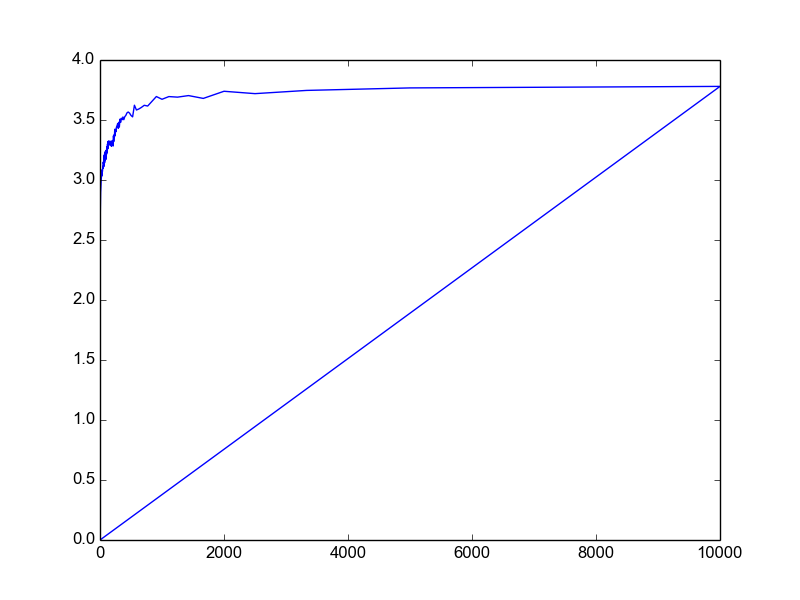
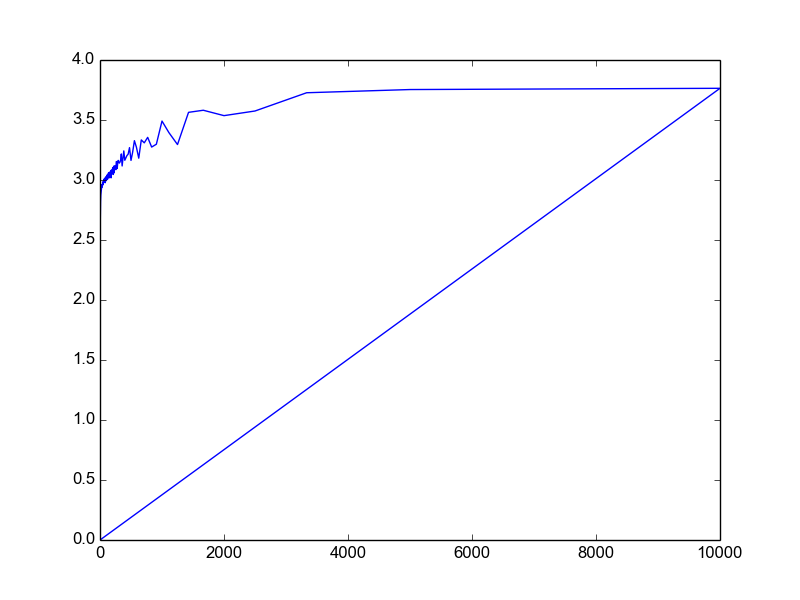
Update. New method to write to file in util. New plots. Minor changes to the solver.

diff --git a/Project2/src/cpp/variableOptimazation/neon/main.cpp b/Project2/src/cpp/variableOptimazation/neon/main.cpp
@@ -18,12 +18,13 @@ int main(int argc, const char *argv[])
     double beta = atof(argv[2]);
 
     int nParticles = 10;
-    double nCycles = 1e4;
-    int binSize = nCycles;
-    int idum = 1;
+    double nCycles = 5e3;
     int threads = 4;
+    int trials = 10;
+    int totalTrials = threads*trials;
+    int idum = 1;
 
-    string adress = "../../../../res/blocking/neon_prep/";
+    string adress = "../../../../res/variableOptimazation/neon/";
 
     VMCWrapper wrapper = VMCWrapper();
     wrapper.alpha = alpha;
@@ -37,16 +38,16 @@ int main(int argc, const char *argv[])
     wrapper.hInv = 1000;
     wrapper.h2Inv = 1e+06;
     wrapper.idum = idum;
-    wrapper.useEfficientSlater(true);
-    wrapper.useLocalEnergySlater();
     wrapper.useImportanceSampling(true);
     wrapper.timeStep = 0.001;
     wrapper.D = 0.5;
+    wrapper.useEfficientSlater(true);
+    wrapper.useLocalEnergySlater();
 
     VMCSolver solver = wrapper.getInitializedSolver();
 
-    Vector vEnergyArray = Vector(nCycles);
-    double* energyArray = vEnergyArray.getArrayPointer();
+    Vector vEnergiesMean = Vector(totalTrials);
+    double* energiesMean = vEnergiesMean.getArrayPointer();
 
     // Set the max number of threads that can be run.
     omp_set_num_threads(threads);
@@ -54,32 +55,34 @@ int main(int argc, const char *argv[])
     auto start = chrono::high_resolution_clock::now();
     #pragma omp parallel 
     {
-        VMCSolver solver = wrapper.getInitializedSolver();
-        solver.setSeed(idum + omp_get_thread_num());
-
-        // Run simulation.
-        for (int cycle = 0; cycle < nCycles; cycle++) 
+        for (int trial = 0; trial < trials; trial++) 
         {
-            for (int i = 0; i < nParticles; i++) 
+            double energy = 0;
+
+            VMCSolver solver = wrapper.getInitializedSolver();
+            // Give an unique seed to the solver.
+            int thread = omp_get_thread_num();
+            solver.setSeed(wrapper.idum + trials*thread + trial);
+            // Run simulation.
+            for (int cycle = 0; cycle < nCycles; cycle++) 
             {
-                solver.runSingleStepSlater(i,cycle);
-                energyArray[cycle] += solver.deltaE;
+                for (int i = 0; i < nParticles; i++) 
+                {
+                    solver.runSingleStepSlater(i,cycle);
+                    energy += solver.deltaE;
+                }
             }
+            energy /= (nParticles*nCycles);
+            energiesMean[trials*thread + trial] = energy;
         }
     }
-    vEnergyArray /= (nParticles*threads);
 
     auto end = chrono::high_resolution_clock::now();
     chrono::duration<double> diff = end-start;
-    /* cout << "Time = " << microfortnights(diff).count() << " micro fortnights." << endl; */
+    cout << totalTrials << " trials completed." << endl;
     cout << "Time = " << diff.count() << " seconds." << endl;
 
-    // Manipulate data. 
-    Vector blocking = Vector();
-    Vector blockingStd = Vector();
-    util::blockingVar(1,vEnergyArray,blockingStd,blocking);
-    util::appendToFile(adress,"energies_bins.txt",blocking);
-    util::appendToFile(adress,"energies_std.txt",blockingStd);
+    util::writeToFile(adress,"energies_mean.txt",vEnergiesMean);
 
     return 0;
 }

diff --git a/Project2/src/python/variableOptimazation/neon/run.py b/Project2/src/python/variableOptimazation/neon/run.py
@@ -1,0 +1,61 @@
+import os
+from subprocess import call
+from subprocess import Popen, PIPE
+import matplotlib.pyplot as plt
+import numpy as np
+from scipy import optimize
+
+curDir = os.getcwd();
+# Adress to target directories from this directory. 
+cppDir = "../../../cpp/variableOptimazation/neon/"
+resDir = "../../../../res/variableOptimazation/neon/";
+fileName = "energies_mean.txt"
+alphaFile = "alpha_array.txt"
+
+ah = 0.01
+ahInv = 1/ah
+bh = 0.001
+bhInv = 1/bh
+
+def f(x,*args):
+    alpha, beta = x
+    if beta < 0 : beta = -beta
+    # Run the cpp code
+    os.chdir(curDir)
+    os.chdir(cppDir)
+    call(["./a.out", str(alpha), str(beta)])
+    # p = Popen(["./a.out", str(alpha), str(beta)], stdin=PIPE,stdout=PIPE, stderr=PIPE)
+    # output, err = p.communicate(b"input data is passed to subprocess' stin")
+    # rc = p.returncode
+    # energy = float(output)
+
+    # Read output from file
+    os.chdir(curDir)
+    os.chdir(resDir)
+    energyFile    = open(fileName, 'r')
+    energyArray   = np.loadtxt(energyFile)
+    energyFile.close()
+    energy = np.mean(energyArray)
+    print energy, alpha, beta
+    return energy
+
+def gradf(x,*args):
+    alpha, beta = x
+    galpha = (f((alpha+ah,beta),0) - f((alpha-ah,beta),0)) * 0.5*ahInv
+    gbeta = (f((alpha,beta+bh),0) - f((alpha,beta-bh),0)) * 0.5*bhInv
+    return np.asarray((galpha,gbeta))
+
+# Compile the code
+os.chdir(curDir)
+os.chdir(cppDir)
+call(["make","cpp_file=main.cpp"])
+alpha = 9.82
+beta = 0.18
+
+x0 = np.asarray((alpha,beta))
+args = 0
+res = optimize.fmin_ncg(f,x0,fprime=gradf,disp=True)
+print res
+
+
+

diff --git a/Project2/src/cpp/plot/neonQuantum/main.cpp b/Project2/src/cpp/plot/neonQuantum/main.cpp
@@ -20,8 +20,9 @@ int main(int argc, const char *argv[])
     int nParticles = 10;
     double nCycles = 5e3;
     int threads = 4;
-    int trials = 20;
+    int trials = 4;
     int totalTrials = threads*trials;
+    int idum = 1000;
 
     string adress = "../../../../res/plot/neonQuantum/";
 
@@ -36,14 +37,12 @@ int main(int argc, const char *argv[])
     wrapper.h = 0.001;
     wrapper.hInv = 1000;
     wrapper.h2Inv = 1e+06;
-    wrapper.idum = 1;
+    wrapper.idum = idum;
     wrapper.useEfficientSlater(true);
     wrapper.useLocalEnergySlater();
     wrapper.useImportanceSampling(true);
     wrapper.timeStep = 0.001;
     wrapper.D = 0.5;
-
-    VMCSolver solver = wrapper.getInitializedSolver();
 
     Vector vEnergiesMean = Vector(totalTrials);
     double* energiesMean = vEnergiesMean.getArrayPointer();
@@ -68,10 +67,12 @@ int main(int argc, const char *argv[])
                 for (int i = 0; i < nParticles; i++) 
                 {
                     solver.runSingleStepSlater(i,cycle);
-                    energy += solver.deltaE;
+                    /* energy += solver.deltaE; */
                 }
+                energy += solver.deltaE;
             }
-            energy /= (nParticles*nCycles);
+            /* energy /= (nParticles*nCycles); */
+            energy /= (nCycles);
             energiesMean[trials*thread + trial] = energy;
         }
     }

diff --git a/Project2/src/cpp/vmcsolver/util.h b/Project2/src/cpp/vmcsolver/util.h
@@ -26,6 +26,25 @@ namespace util {
         return meanArray;
     }
 
+    /** \brief Write vector to file. Will overwrite.
+     *
+     * \param adress Adress to file. Warning, from the location of this
+     * function.
+     * \param fileName Name of file. 
+     * \param array Vector to print. 
+     */         
+    void writeToFile(string adress, string fileName, Vector array){
+        ofstream myFile;
+        double* pArray = array.getArrayPointer();
+        // Dump results to the end of the file. 
+        myFile.open((adress + fileName).c_str());
+        for (int i = 0; i < array.getLength(); i++) {
+            myFile << pArray[i] << " ";
+        }
+        myFile << endl;
+        myFile.close();
+    }
+
     /** \brief Appends vector to file.
      *
      * \param adress Adress to file. Warning, from the location of this

diff --git a/Project2/src/python/blocking/neon_prep/plot.py b/Project2/src/python/blocking/neon_prep/plot.py
@@ -8,8 +8,8 @@ curDir = os.getcwd();
 cppDir = "../../../cpp/blocking/neon_prep/"
 resDir = "../../../../res/blocking/neon_prep/";
 
-blockingFileName = "energies_blocking.txt"
-blockingStdFileName = "energies_blocking_std.txt"
+blockingFileName = "energies_bins.txt"
+blockingStdFileName = "energies_std.txt"
 
 # Load data.
 os.chdir(curDir)

diff --git a/Project2/src/python/plot/neonQuantum/run.py b/Project2/src/python/plot/neonQuantum/run.py
@@ -20,8 +20,8 @@ try :
 except OSError:
     pass
 
-beta = 0.2
-alphaArray = np.linspace(9.5,12.5,5)
+beta = 0.21
+alphaArray = np.linspace(9.0,11.0,11)
 
 
 # Save the alpha values.

diff --git a/Project2/src/python/blocking/neon_prep/run.py b/Project2/src/python/blocking/neon_prep/run.py
@@ -18,8 +18,8 @@ try :
 except OSError:
     pass
 
-beta = 0.2
-alpha = 11.75
+beta = 0.21
+alpha = 11.00
 
 # Compile the code
 os.chdir(curDir)
